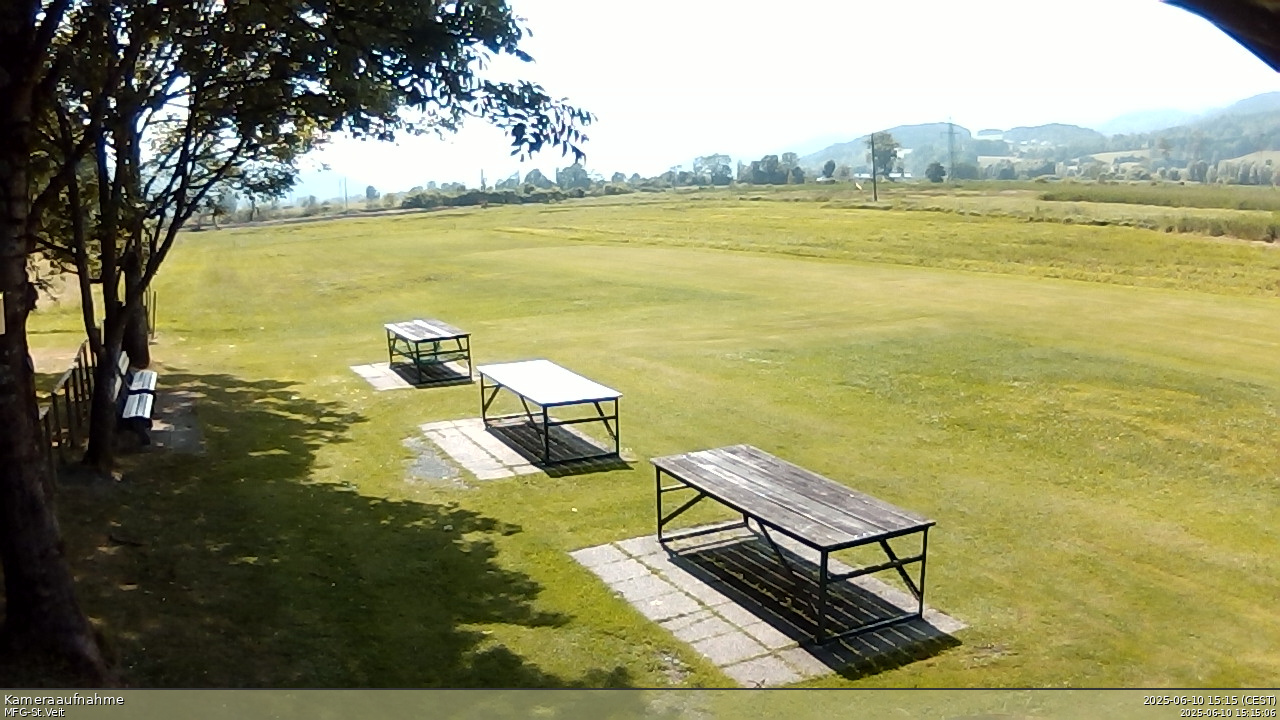
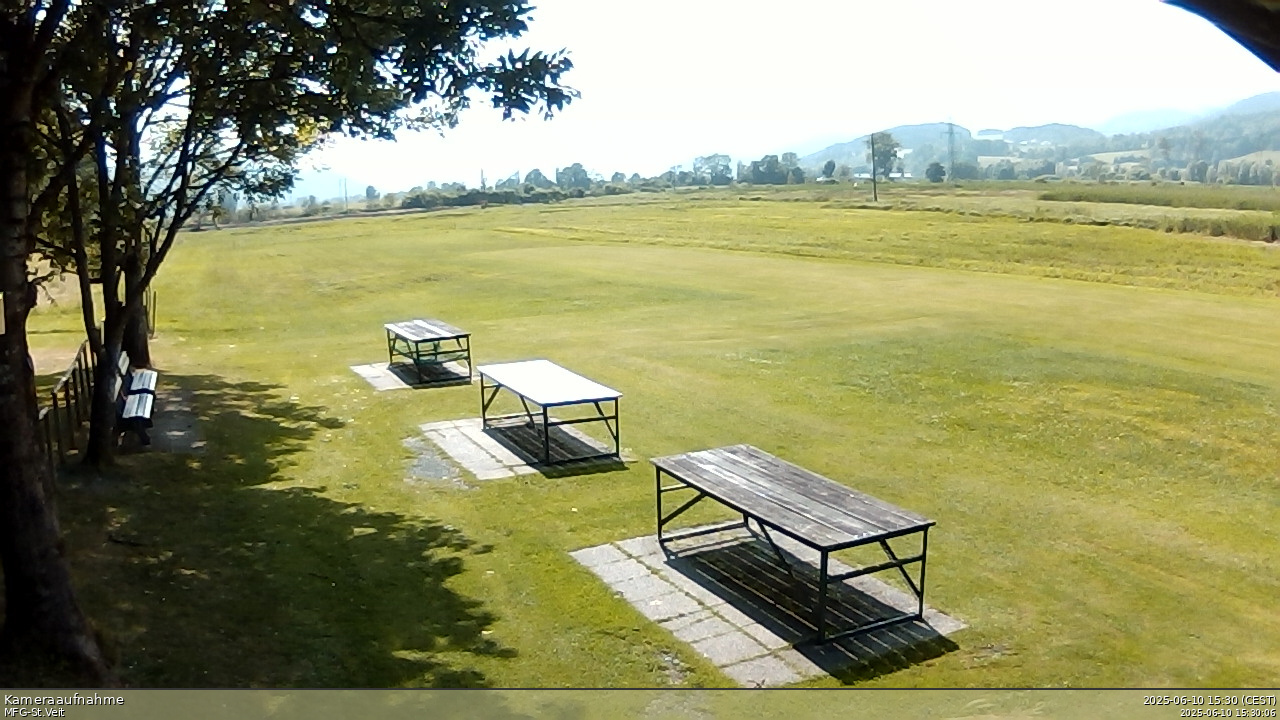
Automatischer Upload: 2025-06-10 15:30:08

diff --git a/index.html b/index.html
@@ -120,12 +120,12 @@
         <p class="highlight">Telemetriewerte Flugplatz</p>
         <p><strong>Batterie links:</strong> 14.56 V</p>
         <p><strong>Batterie rechts:</strong> 14.27 V</p>
-        <p><strong>Innentemperatur:</strong> 22.2 Grad</p>
-        <p><strong>Außentemperatur:</strong> 24.9 Grad</p>
+        <p><strong>Innentemperatur:</strong> 22.4 Grad</p>
+        <p><strong>Außentemperatur:</strong> 24.5 Grad</p>
     </div>
 
     <div class="footer">
-        <p>MFG-St.Veit/Glan - aktualisiert am 2025-06-10 15:15:08
+        <p>MFG-St.Veit/Glan - aktualisiert am 2025-06-10 15:30:08
     </div>
 </body>
 </html>
